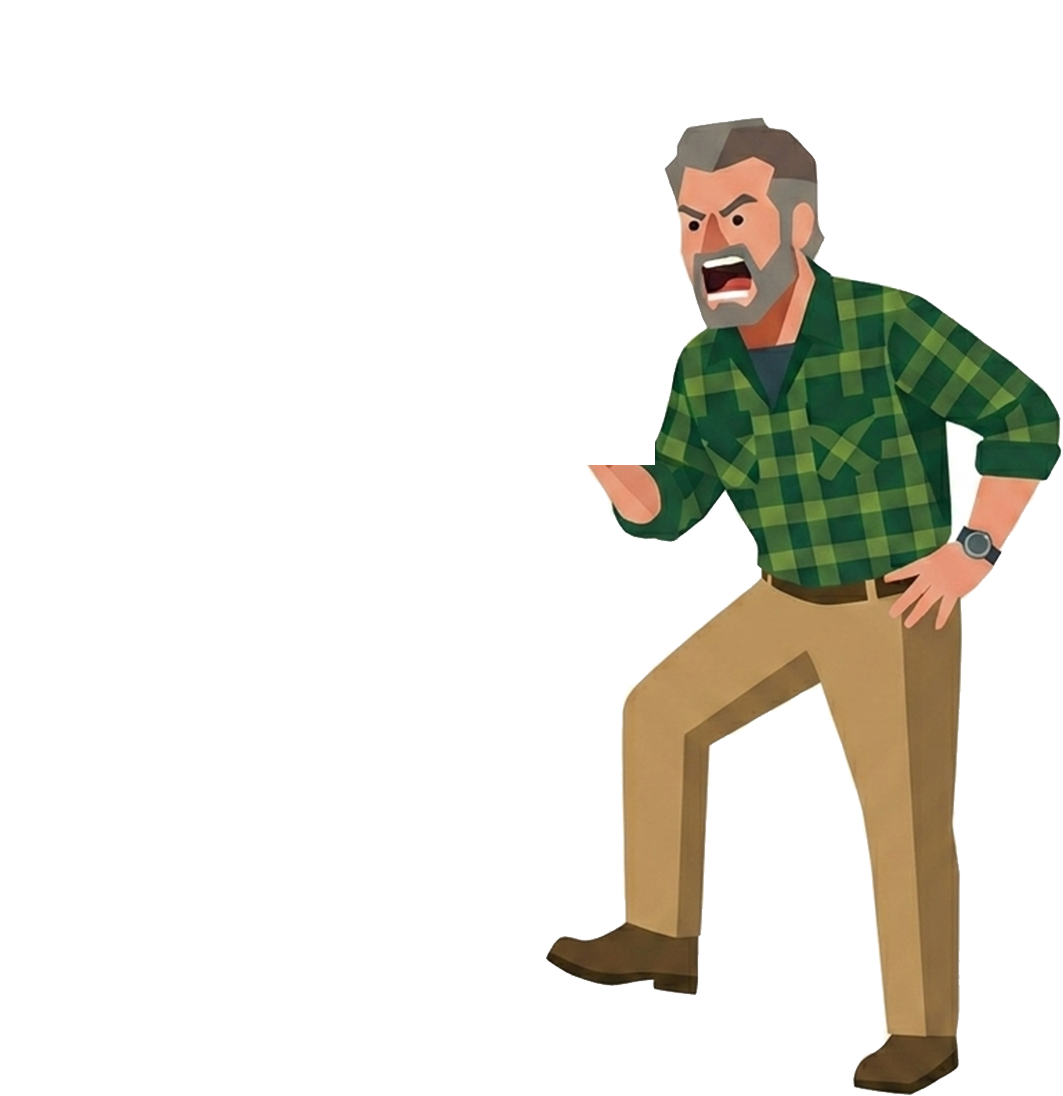
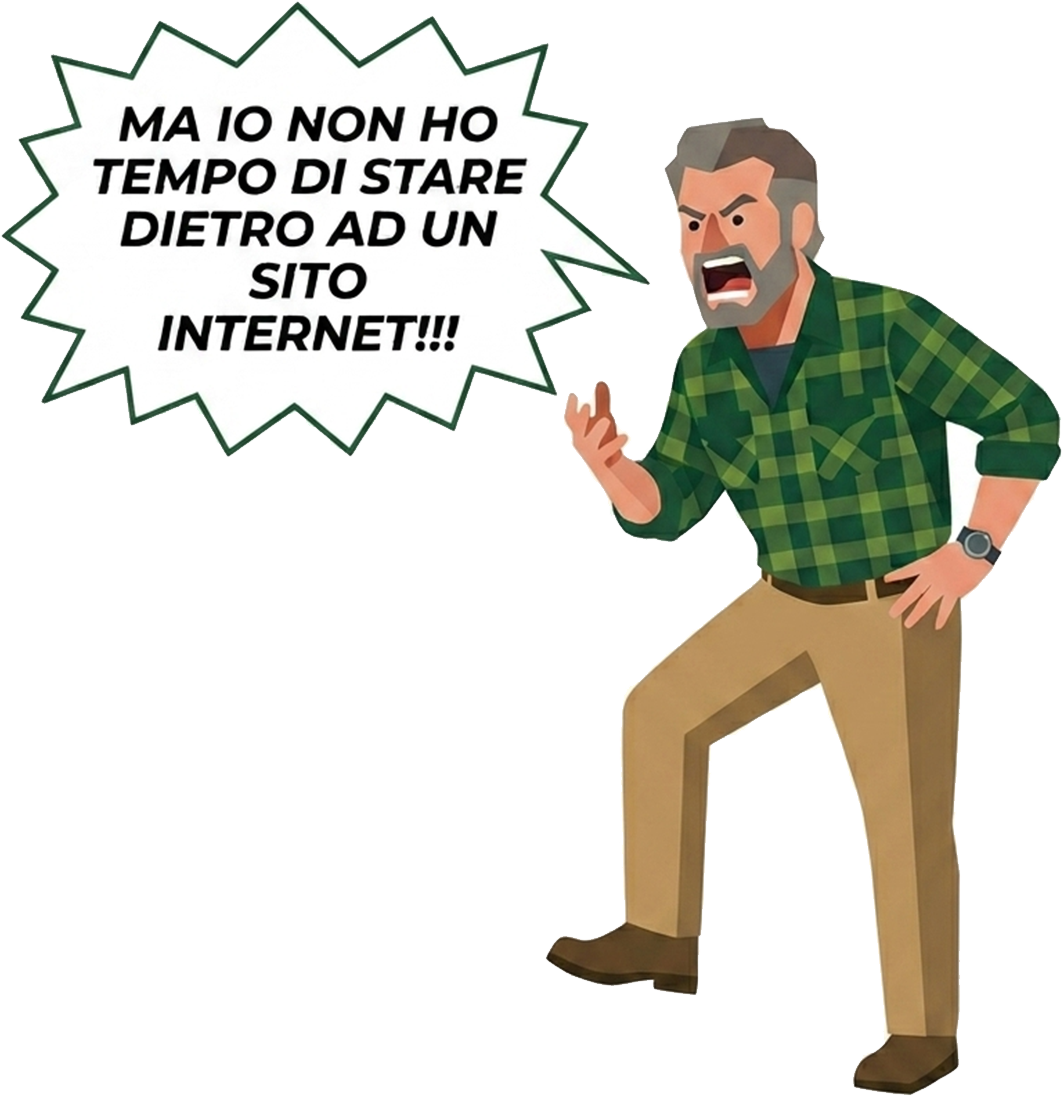
Onboarding cover: illustrazione originale col suo fumetto (gemello)

diff --git a/public/demo/onboarding/index.html b/public/demo/onboarding/index.html
@@ -102,8 +102,7 @@
         <p class="lead">Lo sappiamo: gestire un sito è l'ultimo dei tuoi pensieri. Tu ci mandi listino e foto, <strong>al resto pensiamo noi</strong>.</p>
       </div>
       <div class="ill-wrap">
-        <img class="ill-man" src="img/contadino.png" alt="Agricoltore" />
-        <div class="fumetto">«Io non ho tempo di stare dietro a un sito!»</div>
+        <img class="ill-man" src="img/contadino.png" alt="Agricoltore: non ho tempo di stare dietro a un sito" />
       </div>
     </div>
   </section>